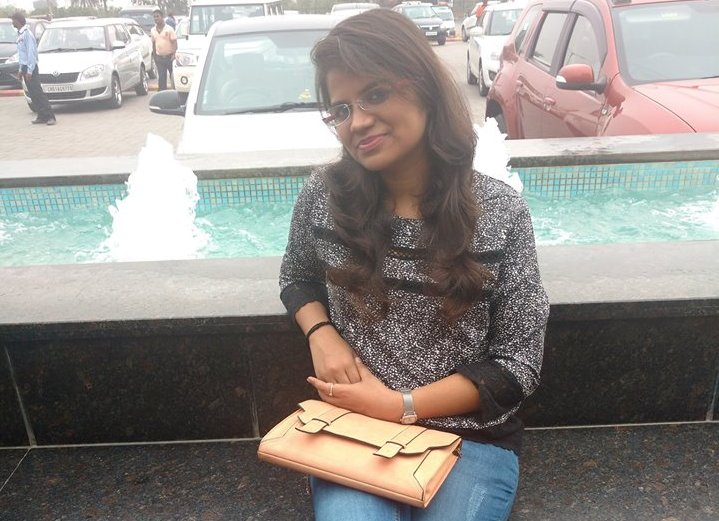
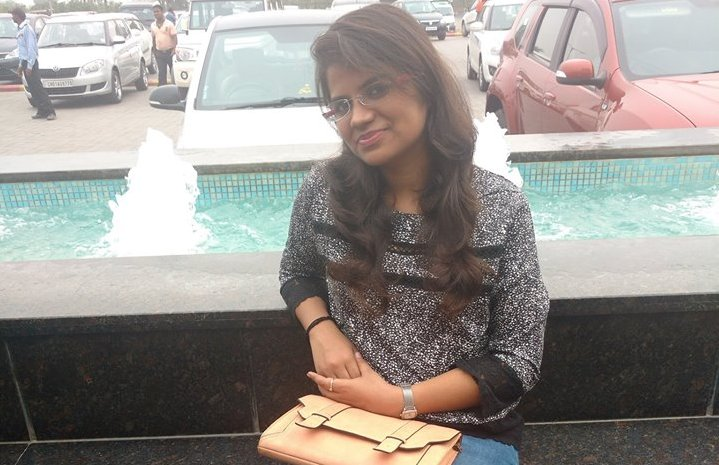
Team page

diff --git a/public/css/team.css b/public/css/team.css
@@ -87,25 +87,25 @@
 }
 
 .first_img {
-    background-image: url(../media/team/1.1.jpg);
+    background-image: url(../media/team/1.1.1.jpg);
 }
 
 .second_img {
-    background-image: url(../media/team/1.2.jpg);
+    background-image: url(../media/team/1.2.1.jpg);
 }
 
 .third_img {
-    background-image: url(../media/team/1.3.jpg);
+    background-image: url(../media/team/1.3.1.jpg);
 }
 
 .fourth_img {
-    background-image: url(../media/team/1.4.jpg);
+    background-image: url(../media/team/1.4.1.jpg);
 }
 
 .fifth_img {
-    background-image: url(../media/team/1.5.jpg);
+    background-image: url(../media/team/1.5.1.jpg);
 }
 
 .sixth_img {
-    background-image: url(../media/team/1.6.jpg);
+    background-image: url(../media/team/1.6.1.jpg);
 }
